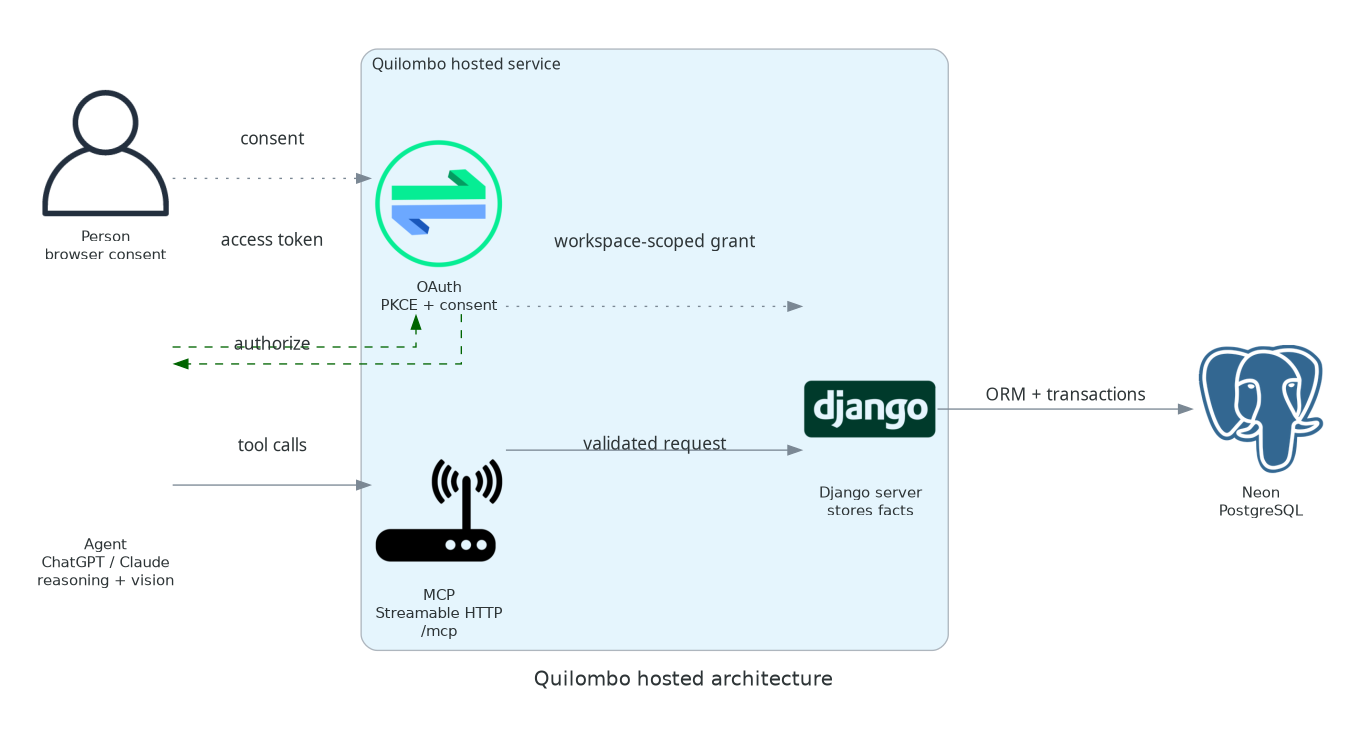
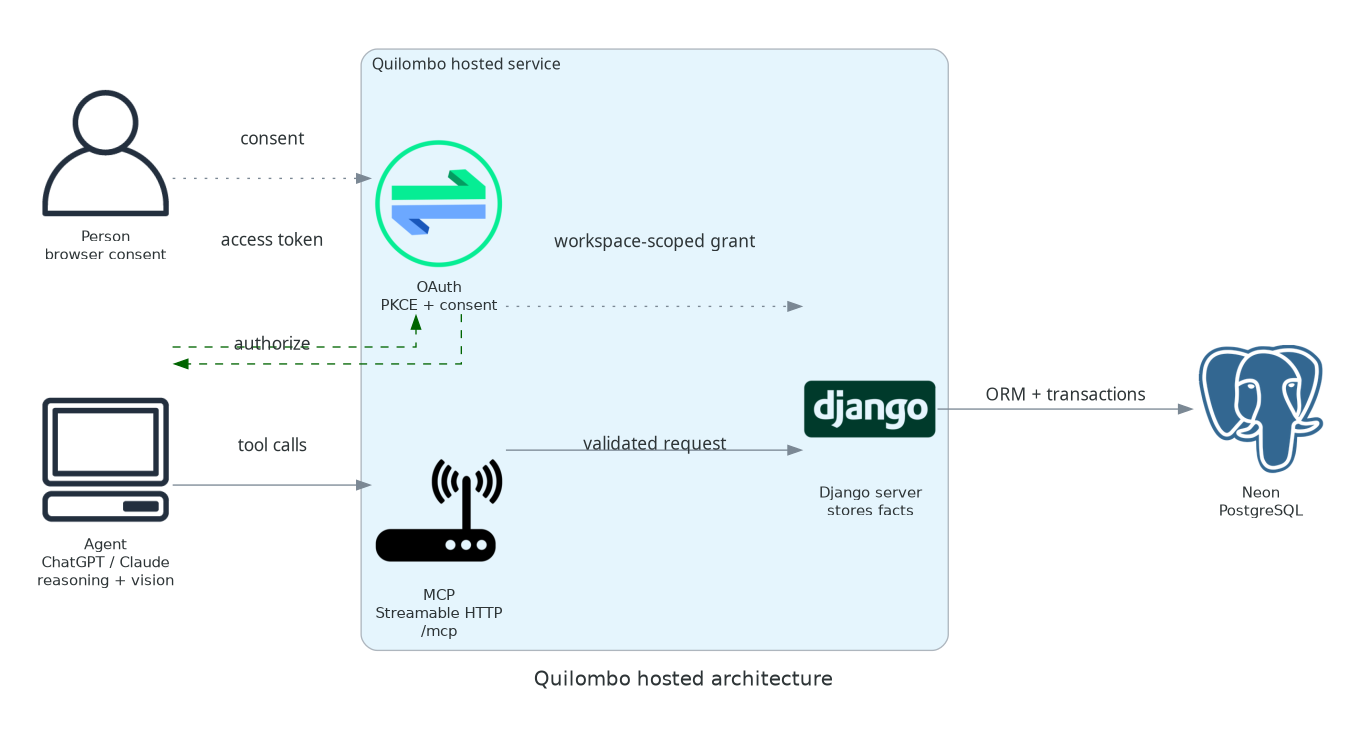
docs: clarify agent in architecture diagram
Show the external agent as a client node in issue #66.

Changed region(s): [[0.0307, 0.5395, 0.123, 0.7193]]

diff --git a/docs/architecture_diagram.py b/docs/architecture_diagram.py
@@ -12,10 +12,9 @@ installed on the machine generating the image.
 from pathlib import Path
 
 from diagrams import Cluster, Diagram, Edge
-from diagrams.generic.blank import Blank
 from diagrams.generic.network import Router
 from diagrams.onprem.auth import Oauth2Proxy
-from diagrams.onprem.client import User
+from diagrams.onprem.client import Client, User
 from diagrams.onprem.database import PostgreSQL
 from diagrams.programming.framework import Django
 
@@ -49,7 +48,7 @@ def build_diagram() -> None:
         graph_attr=graph_attrs,
         node_attr=node_attrs,
     ):
-        agent = Blank("Agent\nChatGPT / Claude\nreasoning + vision")
+        agent = Client("Agent\nChatGPT / Claude\nreasoning + vision")
         person = User("Person\nbrowser consent")
 
         with Cluster("Quilombo hosted service"):
